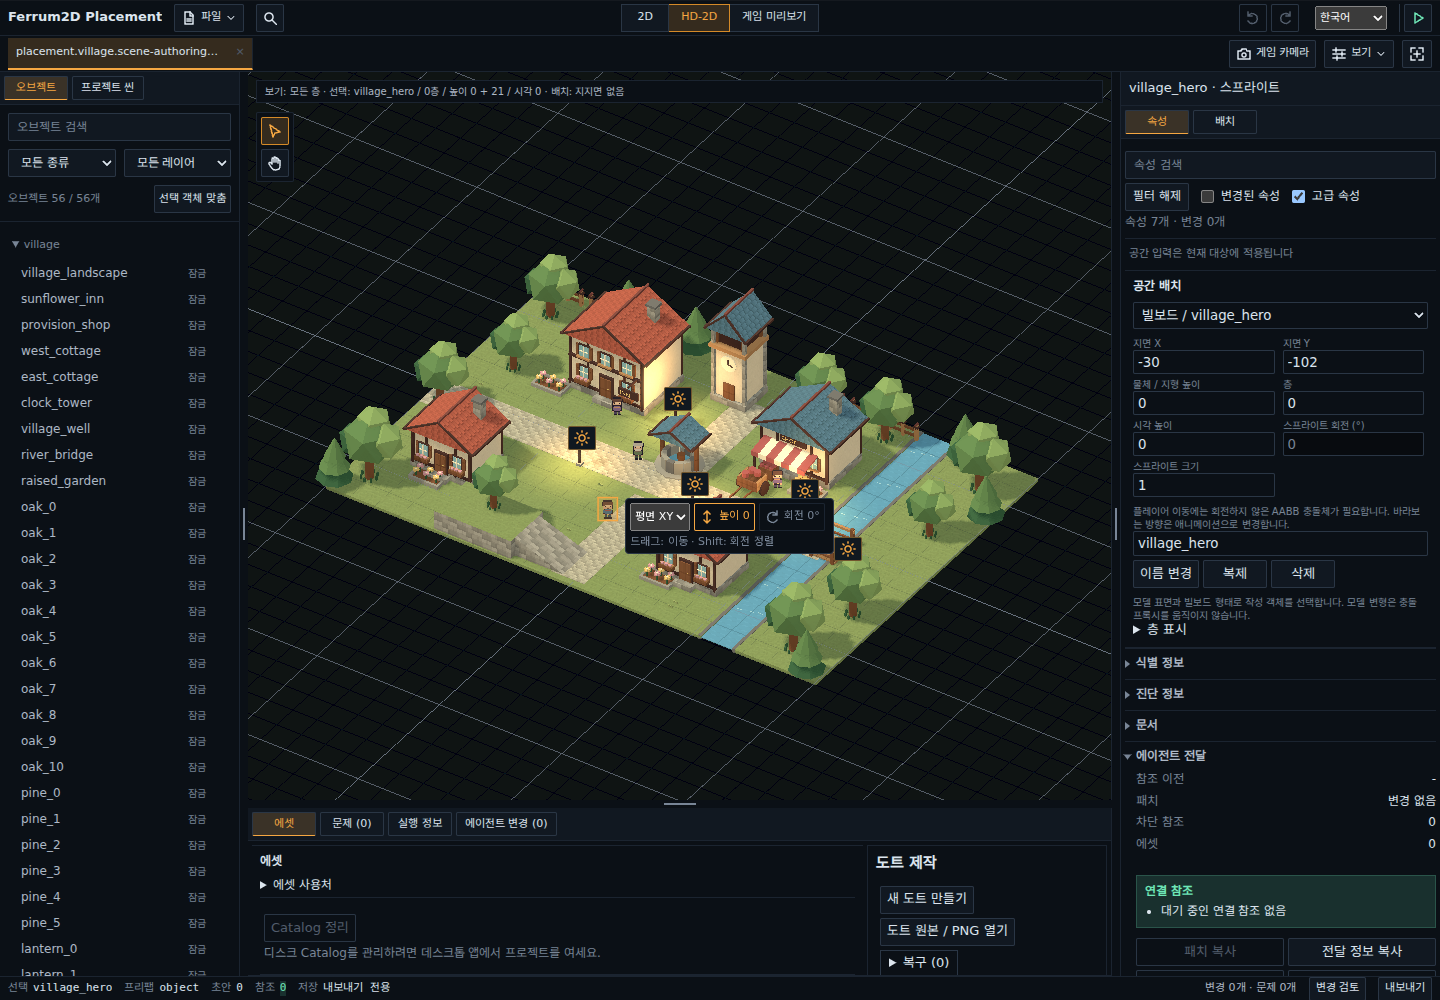
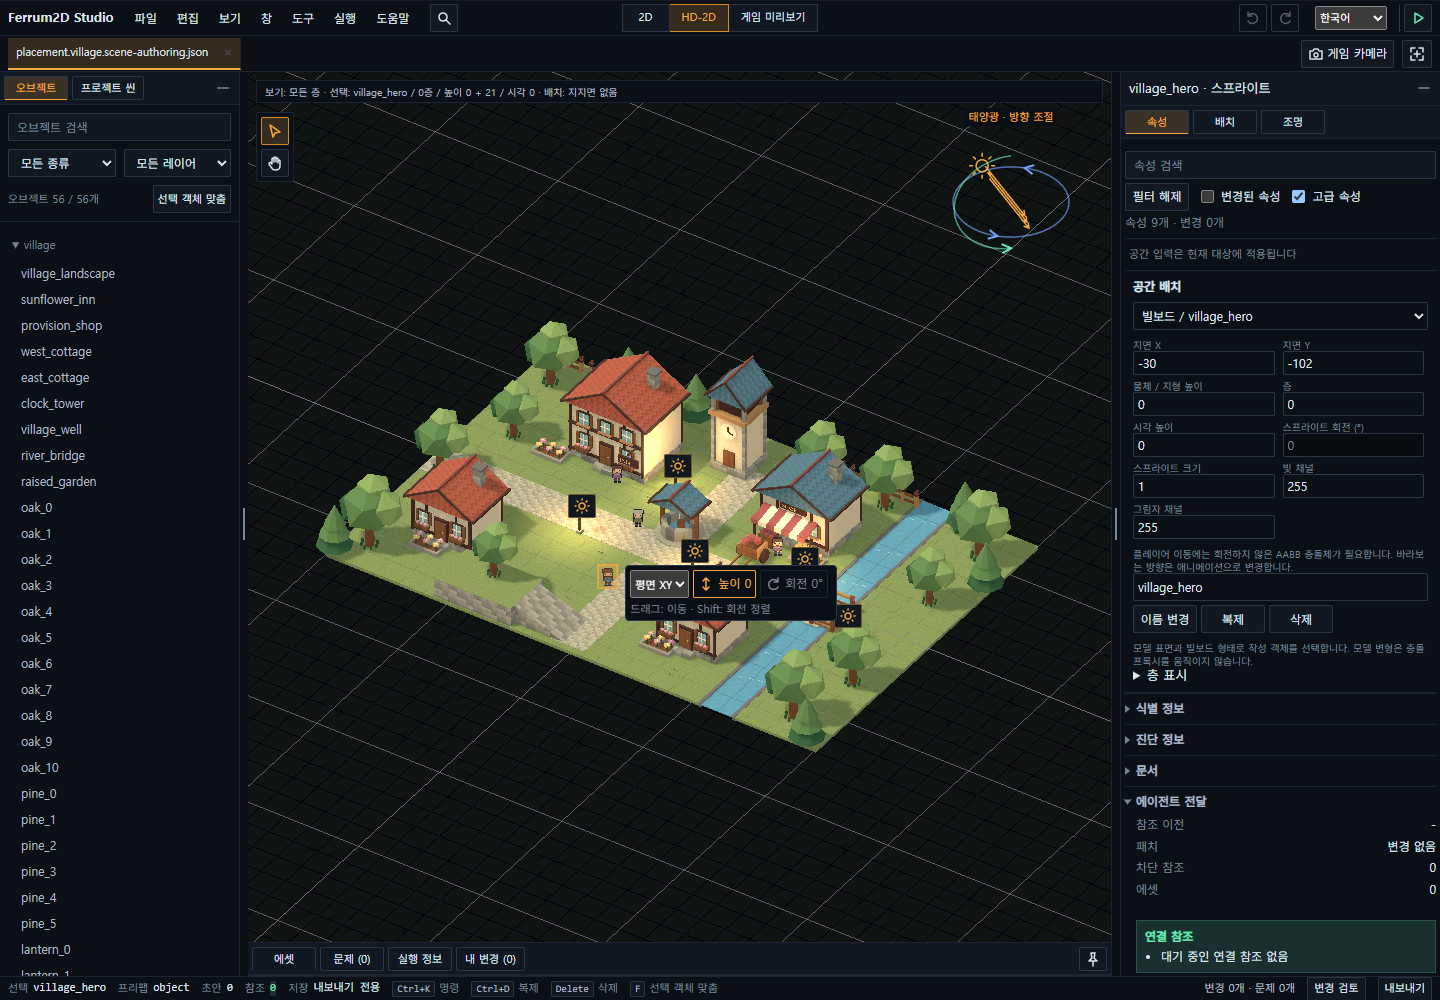
docs(studio): align guides and screenshots with Studio branding

diff --git a/README.en.md b/README.en.md
@@ -5,13 +5,13 @@
 **An AI agent-first 2D and HD-2D web game engine.**
 
 Rust and WebAssembly run the game simulation. TypeScript connects browser APIs, assets, input, audio, and GPU rendering.
-Agents edit specifications and code; the Scene/Object Placement Viewer helps people inspect placement and runtime results.
+Agents edit specifications and code; **Ferrum2D Studio** lets people edit scenes and assets and preview runtime results.
 
 [Try the demos](https://silbaram.github.io/ferrum2d/) · [Features](#engine-capabilities) · [Examples](#example-gallery) · [Quickstart](docs/en/engine/developer-quickstart.md) · [English docs](docs/en/README.md) · [GitHub Releases](https://github.com/silbaram/ferrum2d/releases)
 
-![Ferrum2D HD-2D scene placement viewer](docs/development/quality/screenshots/placement-village.png)
+![Ferrum2D Studio HD-2D workspace](docs/development/quality/screenshots/placement-village.png)
 
-This is a real browser capture of the viewer with example village content.
+This is a real browser capture of Studio with example village content.
 
 > **Status:** The MVP baseline is complete; commercial product features are in development.
 > Source packages use version `0.1.0`. Development-source capabilities can differ from released beta packages.
@@ -56,7 +56,7 @@ This table describes the **current development source**. Detailed contracts defi
 | Physics | Bodies/materials/sensors, compound colliders, eight joint types, CCD, raycasts/shape casts, controllers/platforms, floor/height filters and destructible terrain | [Physics Map (Korean)](docs/development/architecture/physics-engine.md) |
 | Input and audio | Action bindings/contexts, keyboard, pointer, gamepad, virtual controls, audio policy and spatial audio | [Input (Korean)](docs/engine/input-actions.md) |
 | Assets and loading | Atlases, Aseprite/Tiled/LDtk data, trimmed sprite restoration, parallel loading/cancellation/retry/cache, optional KTX2, model caching and level streaming | [Core API (Korean)](docs/engine/public-api/core.md) |
-| Scene workspace | Project scene browsing, multiple documents, drag/drop, transforms, Undo/Redo, layers/locks, game cameras, lights, My Changes, handoff and asset usage/catalog cleanup | [Viewer guide (Korean)](apps/placement-viewer/README.md) |
+| Scene workspace | Project scene browsing, multiple documents, drag/drop, transforms, Undo/Redo, layers/locks, game cameras, lights, My Changes, handoff and asset usage/catalog cleanup | [Studio guide (Korean)](apps/placement-viewer/README.md) |
 | Tile authoring | Tileset/map imports, author-time autotiling, tile animation with fixed collision, and time-based map previews | [Tile authoring (Korean)](docs/engine/data-scene-authoring.md#작성-시점-오토타일과-맵-미리보기) |
 | Pixel authoring | RGBA/indexed palettes, selections/transforms, layer opacity/blending/merge, animation/onion skinning, PNG conversion, normals and GIF/APNG export | [Pixel editor (Korean)](apps/placement-viewer/README.md#내장-도트-제작) |
 | Diagnostics and checks | Profiling/frame traces, GPU resource statistics, WebGL2 GPU timing, Wasm memory, spec validation, replay/hash, browser smoke tests, runtime budgets and consumer checks | [Quality API (Korean)](docs/engine/public-api/quality.md) |
@@ -90,7 +90,7 @@ Consult [Spatial Scenes (Korean)](docs/engine/data-scene-spatial.md) for light/s
 - Use **Help → Versions and updates** to check public releases. Supported desktop environments handle project engine updates separately from signed application updates.
 
 Built-in browser examples are **export only**. File saving uses permissions provided by the active host.
-Game Preview runs the Scene Authoring runtime. See the [viewer guide (Korean)](apps/placement-viewer/README.md).
+Game Preview runs the Scene Authoring runtime. See the [Studio guide (Korean)](apps/placement-viewer/README.md).
 
 ### Built-in pixel editor
 
@@ -138,7 +138,7 @@ After [building the source](#build-the-engine-source), run a command from the re
 | Example | Command | Source |
 | --- | --- | --- |
 | Feature Lab, 31 independent experiments | `pnpm dev:starter-runtime` | [starter-runtime](examples/starter-runtime/) |
-| 2D garden / HD-2D village | `pnpm dev:placement-viewer`, then `?scene=garden` / `?scene=village` | [placement-viewer](apps/placement-viewer/) |
+| 2D garden / HD-2D village | `pnpm dev:placement-viewer`, then `?scene=garden` / `?scene=village` | [Ferrum2D Studio](apps/placement-viewer/) |
 | Top-down Shooter | `pnpm dev:topdown` | [topdown-shooter](examples/topdown-shooter/) |
 | Physics Sandbox | `pnpm dev:physics-sandbox` | [physics-sandbox](examples/physics-sandbox/) |
 | Breakout | `pnpm dev:breakout` | [breakout](examples/breakout/) |
@@ -153,7 +153,7 @@ The [English feature guide](docs/en/engine/showcase-hub.md) connects all example
 ```mermaid
 flowchart LR
     Agent["AI Agent / Game code"] --> Spec["Game / Scene / Physics Spec"]
-    Viewer["Scene / Object Placement Viewer"] -->|"Placement / Assets / Patches"| Spec
+    Viewer["Ferrum2D Studio"] -->|"Placement / Assets / Patches"| Spec
     Spec --> Core["Rust / Wasm Core"]
     Core -->|"Render command buffers"| Platform["TypeScript Platform"]
     Platform --> GPU["WebGL2 / Optional WebGPU"]
@@ -204,7 +204,7 @@ For setup without generating a game, see the [AI installation guide (Korean)](do
 | `@ferrum2d/create-game` | Game project generator |
 | `@ferrum2d/agents` | Consumer agent/skill/command installer |
 
-The full desktop Placement Viewer is distributed separately from the helper package and includes its preview engine.
+The Ferrum2D Studio desktop app is distributed separately from the helper package and includes its preview engine.
 Check the selected release's actual attachments for available OS installers. [Distribution procedure (Korean)](docs/development/operations/github-release.md).
 
 ## Build the engine source
@@ -253,7 +253,7 @@ Full `CI` and `Pages` deployment are manually dispatched. Build the local site w
 | `packages/ferrum-web/` | TypeScript browser runtime |
 | `packages/ferrum-authoring-viewer/` | Shared authoring helpers |
 | `packages/create-game/`, `packages/agents/` | Project generation and consumer AI instructions |
-| `apps/placement-viewer/`, `apps/placement-viewer-desktop/` | Web and desktop authoring tools |
+| `apps/placement-viewer/`, `apps/placement-viewer-desktop/` | Ferrum2D Studio web and desktop apps |
 | `examples/` | Feature Lab, focused physics scenarios, and genre examples |
 | `docs/`, `scripts/` | Usage contracts, architecture, validation, planning, and build tools |
 

diff --git a/apps/placement-viewer/README.md b/apps/placement-viewer/README.md
@@ -1,8 +1,12 @@
-# Ferrum2D Placement Viewer
+# Ferrum2D Studio
 
-Data Scene 기반 Scene Placement/Object Authoring viewer를 실행하는 공식 authoring app이다. 목적은 사람이 위치, visual, collider, layer, ObjectDefinition, 기존 behavior recipe id reference를 확인/수정하고, agent가 같은 scene-authoring JSON과 handoff report를 기준으로 후속 작업을 이어가는 흐름을 제공하는 것이다.
+Ferrum2D Studio는 2D 게임 씬·에셋을 편집하는 공식 authoring 앱이다. 사람은 씬 배치, 객체·충돌체·레이어,
+카메라·조명, 도트·에셋을 편집하고, AI agent는 같은 Scene Authoring JSON과 patch·handoff를 바탕으로
+게임 코드와 Spec 작업을 이어간다. 게임 미리보기는 작성한 씬의 실행 결과를 확인한다.
 
-이 app은 full visual editor가 아니다. Behavior Recipe 본문, FSM/action graph, animation timeline, tile painting은 이 viewer에서 편집하지 않는다.
+게임 로직·Behavior Recipe 본문, FSM/action graph, 범용 animation timeline, tile painting은 편집 범위에 포함하지 않는다.
+제품명은 **Ferrum2D Studio**, 설명은 **2D 게임 씬·에셋 편집 도구**다. `placement-viewer` 경로·명령·패키지,
+`ScenePlacementViewer` API와 저장 형식은 호환성을 위해 유지한다. create-game의 경량 placement viewer는 별도 helper다.
 
 기본 화면(`/`, `?scene=default`, `?scene=2d`)은 `public/placement.garden.scene-authoring.json`의 2D 정원이다.
 파일 → 예제와 프로젝트 씬에는 **2D Lantern Garden**과 **HD-2D Village**를 제공한다. 기존 기본 2D·HD-2D 기초 예제는 배포에서 제거했다.
@@ -37,8 +41,8 @@ HD-2D 기본 보기와 **전체 씬 맞춤**은 패널/창 크기에 맞춰 geom
 각 영역에 에디터 설치 또는 열린 프로젝트 경로와 영향 범위를 표시한다. 실패 시 표시된 원인을 해결한 뒤 **업데이트 확인**으로 다시 조회한다.
 
 - **프로젝트 엔진**: 데스크톱에서 **프로젝트 열기**로 연 npm/pnpm 게임의 Ferrum2D 패키지를 동일 릴리스로 갱신한다. Node와 해당 패키지 관리자가 필요하다. 단독 JSON/폴더 사본·엔진 monorepo·workspace/file/link 의존성은 자동 변경하지 않는다.
-- **에디터 앱**: 공개키가 포함된 설치 앱에서 해당 OS의 서명 업데이트 파일을 확인·설치하고 재시작한다. 내장 미리보기 엔진도 함께 바뀐다. Linux 자동 교체는 AppImage에서 지원하며 `.deb`는 수동 재설치한다.
-- **웹 뷰어**: 릴리스 정보와 데스크톱 사용 안내를 보여준다. 웹 앱 자체는 사이트 재배포로 바뀐다.
+- **Ferrum2D Studio**: 공개키가 포함된 설치 앱에서 해당 OS의 서명 업데이트 파일을 확인·설치하고 재시작한다. 내장 미리보기 엔진도 함께 바뀐다. Linux 자동 교체는 AppImage에서 지원하며 `.deb`는 수동 재설치한다.
+- **웹 Studio**: 릴리스 정보와 데스크톱 사용 안내를 보여준다. 웹 앱 자체는 사이트 재배포로 바뀐다.
 
 미저장 씬이 어느 탭에든 있거나 씬 실행/저장/편집 중이면 설치를 막는다. 설치 중에는 패널/앱을 닫지 않는다.
 프로젝트 갱신은 `.ferrum-updates/<시각-id>/`에 원본 `package.json`·잠금 파일과 결과를 남긴다.
@@ -71,7 +75,7 @@ HD-2D 기본 보기와 **전체 씬 맞춤**은 패널/창 크기에 맞춰 geom
   개발 중 `public/**/*.json` 변경은 HMR reload를 일으키지 않는다. 목록은 새로고침하고, 이미 열린 문서는 초안을 유지한다.
 - 브라우저 **폴더 선택**: 사용자가 선택한 파일 사본에서 문서를 찾고 Export Only로 연다.
   새로고침은 폴더를 다시 선택한다. 에셋 폴더 전체를 자동 업로드하거나 게임 코드를 실행하지 않으므로,
-  문서가 참조하는 에셋은 이미 뷰어에서 사용할 수 있어야 한다. 같은 폴더를 다시 선택하면 새 사본으로 취급한다.
+  문서가 참조하는 에셋은 이미 Studio에서 사용할 수 있어야 한다. 같은 폴더를 다시 선택하면 새 사본으로 취급한다.
 
 탐색은 일반 `.json`도 format/version으로 식별한다. 알려진 `*.scene-authoring.json`의 오류는 목록에 표시하며,
 실제 열기에서 기존 전체 문서 검증을 수행한다. `assets`, `node_modules`, `dist`, `target`, 숨김 디렉터리는 탐색하지 않는다.
@@ -785,8 +789,8 @@ HD-2D drag 취소가 거절되면 모드·탭 전환을 멈추며, Escape나 마
 - 에셋을 펼치면 씬 파일·열린 문서의 저장 원본·편집본, 객체/정의 ID와 정확한 JSON pointer를 표시한다.
   prefab 참조는 정의의 원본 경로로 남기며 모든 상속 객체를 펼쳐 계산하지 않는다. 검색은 에셋·씬·객체·pointer를 대상으로 한다.
   객체/정의 ID는 해당 선언에서만 읽으므로 게임 데이터의 `props.id`와 섞지 않는다. 빈 dictionary key도 원본 JSON pointer로 보존한다.
-- 현재 뷰어에 등록되지 않은 참조도 표시한다. 같은 이름의 texture와 model은 구분한다.
-  뷰어에 등록된 에셋만 기본 목록에 포함하므로 디스크 전체 파일 목록이나 manifest 내부 의존성 목록은 아니다.
+- 현재 Studio에 등록되지 않은 참조도 표시한다. 같은 이름의 texture와 model은 구분한다.
+  Studio에 등록된 에셋만 기본 목록에 포함하므로 디스크 전체 파일 목록이나 manifest 내부 의존성 목록은 아니다.
 - 파일 읽기 실패·지원하지 않는 문서·숫자 texture·외부 component template·한도 초과는 조회 문제로 표시한다.
   참조 영역의 composition/components/spatial 형식은 기존 SDK parser로 검사한다. 잘못된 필드가 있어도 수집한 원본 참조는 보존한다.
   include를 펼치거나 Behavior Recipe·실행 상태를 검증하는 기능은 아니다.
